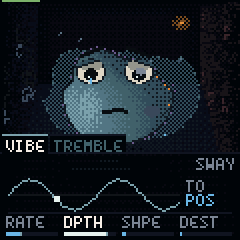
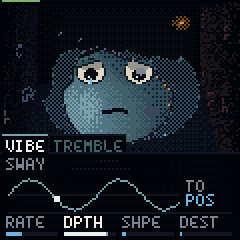
Screen: tabs in fixed places (FX in two rows), the wave's name where the page's was, no frame slider; the 3D table in eight clear lines, taller, its ends bright, the wave playing flat in the drawer while big; fried in soft blotches, not squares; the macros' dials one quiet colour, no red brows

Changed region(s): [[0.8167, 0.6417, 0.9917, 0.7292], [0.0292, 0.6417, 0.2042, 0.7292]]

diff --git a/firmware/src/app/blob.c b/firmware/src/app/blob.c
@@ -475,10 +475,12 @@ static void shade_px(const shade_t *sh, int32_t x, int32_t y)
     }
     idx = (int)(lv * 5.0f + dith + 0.5f);
     idx = idx < 0 ? 0 : idx > 5 ? 5 : idx;
-    if (sh->fry > 0.0f) {                               /* fried: in burnt patches, not all over */
-        const uint32_t hh = ((uint32_t)(x / 3) * 73856093u) ^ ((uint32_t)(y / 3) * 19349663u);
-        const float patch = (float)((hh >> 9) & 255u) / 255.0f;
-        c = patch < sh->fry * 1.1f + dith * 0.15f ? RAMP_FRY[idx] : sh->ramp[idx];
+    if (sh->fry > 0.0f) {                               /* fried: in burnt blotches, soft-edged, that spread as it fries
+                                                           (a few waves across its skin, not squares) */
+        const float u = dx / sh->rmax, v = dy / sh->rmax;
+        const float patch = 0.5f + 0.17f * mm_sin_turns(u * 1.3f + v * 0.7f + 0.11f) + 0.15f * mm_sin_turns(v * 1.9f - u * 0.4f + 0.37f) +
+                            0.12f * mm_sin_turns((u + v) * 2.7f + 0.62f) + 0.06f * mm_sin_turns(u * 4.1f - v * 3.3f);
+        c = patch < sh->fry * 1.1f + (dith - 0.5f) * 0.06f ? RAMP_FRY[idx] : sh->ramp[idx];
     } else {
         c = sh->ramp[idx];
     }
@@ -711,7 +713,7 @@ static void draw_face(const geo_t *g)
         {   /* the brows: inner ends up (sad); the mod envelope lifts them */
             const float by = ey - 8.0f * s - brow * (1.0f - mad) + mad * 2.5f * s;
             const float yin = by - 3.0f * s + mad * 7.5f * s, yout = by + 0.5f * s - mad * 4.0f * s;   /* (angry: the inner ends down) */
-            const uint8_t bc = fine ? PC_BLOB0 : mad > 0.85f ? PC_RED : PC_PUPIL;
+            const uint8_t bc = fine ? PC_BLOB0 : PC_PUPIL;
             px_line((int32_t)(ex - (float)e * 5.5f * s), (int32_t)yin, (int32_t)(ex + (float)e * 4.5f * s), (int32_t)yout, bc);
             px_line((int32_t)(ex - (float)e * 5.5f * s), (int32_t)yin + 1, (int32_t)(ex + (float)e * 4.5f * s), (int32_t)yout + 1, bc);   /* (thick: it reads from across the room) */
             if (mad > 0.4f)                              /* (and thicker still) */
@@ -1002,23 +1004,27 @@ static float lfo_shape_at(int shape, float ph)
     return sy_lfo_shape(shape, ph, lfo_hash(k), lfo_hash(k + 1));
 }
 
-/* A wavetable as a landscape (as Serum draws one, or the OP-1 its strings): its eight frames and what lies
- * between them, NZ slices deep, the first frame nearest, each slice a ridge that hides what is behind and
- * under it; the far ones fade into the room. The slice being played is lit, and travels through it as the
- * position moves (the knob, the LFOs, the Sigh: live). A new table: the land morphs into it. It turns a
- * little, slowly. Drawn back to front into x0..x1, y0..y1. */
+/* A wavetable in 3D (as Serum draws one, or the OP-1 its strings): its eight frames, one line each, the
+ * first nearest and the last at the back, each hiding what is behind and under it; the first and the last
+ * drawn bright so the two ends read, the ones between dimmer, deeper. Tall: the highs and lows show. The
+ * wave playing is lit and laid over it where it is in the table (the knob, the LFOs, the Sigh: live), its
+ * detuned twin beside. A new table: the lines morph into it. It turns a little, slowly. Into x0..x1, y0..y1. */
 static struct {
     int8_t tab[2];                                       /* the table shown, and the one it is morphing from */
     float mix;                                           /* how far along (1: there) */
 } w3[2];                                                 /* (0: the body's, 1: the shadow's) */
+static float w3_at(int which, int table, float fp, float t)
+{
+    const float v = sy_shape(table, fp, t), m = w3[which].mix;
+    return m < 1.0f ? v * m + sy_shape(w3[which].tab[1], fp, t) * (1.0f - m) : v;
+}
 static void wave3d(int which, int32_t x0, int32_t x1, int32_t y0, int32_t y1, int table, float pos, float ghost)
 {
     const int32_t w = x1 - x0, h = y1 - y0;
-    const int big = h > 40, NZ = big ? 26 : 9, NX = big ? 60 : 44;
+    const int NZ = SY_NFRAME, NX = h > 40 ? 64 : 48;
     const float turn = mm_sin_turns(bs.t * 0.07f);
-    const float depx = (float)w * (0.2f + 0.04f * turn), depy = (float)h * (big ? 0.5f : 0.4f);
-    const float amp = (float)h * (big ? 0.17f : 0.22f), fw = (float)w - depx - 2.0f;
-    const int zplay = (int)(mm_clampf(pos, 0.0f, 1.0f) * (float)(NZ - 1) + 0.5f);
+    const float depx = (float)w * (0.18f + 0.03f * turn), depy = (float)h * 0.34f;
+    const float amp = (float)h * 0.3f, fw = (float)w - depx - 2.0f;
     int z, i;
     if (w3[which].tab[0] != table) {                     /* (another table: from the one shown, in a third of a second) */
         if (w3[which].mix >= 1.0f)                       /* (mid-morph: it goes on from where it came) */
@@ -1027,44 +1033,36 @@ static void wave3d(int which, int32_t x0, int32_t x1, int32_t y0, int32_t y1, in
         w3[which].mix = 0.0f;
     }
     w3[which].mix = mm_minf(w3[which].mix + bs.dt * 3.0f, 1.0f);
-    for (z = NZ - 1; z >= 0; z--) {
-        const float zf = (float)z / (float)(NZ - 1), fp = zf, k = 1.0f - 0.22f * zf;   /* (the far ones a little smaller) */
-        const float bx = (float)x0 + 1.0f + depx * zf, by = (float)y1 - 1.0f - amp - depy * zf, m = w3[which].mix;
-        const int play = z == zplay;
-        const uint8_t c = play ? PC_SPEC : zf > 0.75f ? PC_WALL : zf > 0.45f ? PC_WALL2 : zf > 0.2f ? PC_BLOBM : PC_BLOB2;
+    for (z = NZ; z >= 0; z--) {                          /* back to front; z == NZ: the one playing, last, on top */
+        const int play = z == NZ;
+        const float zf = play ? mm_clampf(pos, 0.0f, 1.0f) : (float)z / (float)(NZ - 1), k = 1.0f - 0.2f * zf;
+        const float bx = (float)x0 + 1.0f + depx * zf, by = (float)y1 - 1.0f - amp * k - depy * zf;
+        const uint8_t c = play ? PC_SPEC : z == 0 ? PC_BLOB2 : z == NZ - 1 ? PC_BLOB1 : zf > 0.55f ? PC_WALL : PC_WALL2;
         int32_t lx = 0, ly = 0;
         for (i = 0; i <= NX; i++) {
             const float t = (float)i / (float)NX;
-            float v = sy_shape(table, fp, t);
-            int32_t x, y, yy;
-            if (m < 1.0f)
-                v = v * m + sy_shape(w3[which].tab[1], fp, t) * (1.0f - m);
-            x = (int32_t)(bx + t * fw * k);
-            y = (int32_t)(by - v * amp * k);
-            if (i) {                                     /* the ridge, and under it dark: what is behind is hidden */
-                const int32_t n = x - lx > 0 ? x - lx : 1;
-                int32_t q;
-                for (q = 0; q <= n; q++) {
-                    const int32_t cx = lx + q, cy = ly + (y - ly) * q / n, floor_y = (int32_t)(by + amp * k) + 1;
-                    for (yy = cy + 1; yy <= floor_y && yy <= y1; yy++)
-                        px_pset(cx, yy, PC_BG0);
+            const int32_t x = (int32_t)(bx + t * fw * k), y = (int32_t)(by - w3_at(which, table, zf, t) * amp * k);
+            if (i) {
+                if (!play) {                             /* (under the line, dark: what is behind is hidden) */
+                    const int32_t nn = x - lx > 0 ? x - lx : 1, floor_y = (int32_t)(by + amp * k) + 1;
+                    int32_t q, yy;
+                    for (q = 0; q <= nn; q++)
+                        for (yy = ly + (y - ly) * q / nn + 1; yy <= floor_y && yy <= y1; yy++)
+                            px_pset(lx + q, yy, PC_BG0);
                 }
                 px_line(lx, ly, x, y, c);
-                if (play && big)
-                    px_line(lx, ly - 1, x, y - 1, PC_BLOB2);   /* (the one playing: bold) */
+                if (play || z == 0)
+                    px_line(lx, ly - 1, x, y - 1, play ? PC_BLOB2 : PC_BLOBM);   /* (bold: the one playing, the first) */
             }
             lx = x;
             ly = y;
         }
-        if (play && ghost > 0.05f) {                     /* its detuned twin, sliding */
-            for (i = 0; i <= NX; i++) {
+        if (play && ghost > 0.05f)                       /* its detuned twin, sliding */
+            for (i = 0; i <= NX; i += 2) {
                 const float t = (float)i / (float)NX;
-                const int32_t x = (int32_t)(bx + t * fw * k);
-                const int32_t y = (int32_t)(by - sy_shape(table, fp, t + ghost * 0.1f * mm_sin_turns(bs.t * 0.5f)) * amp * k);
-                if (i & 1)
-                    px_pset(x, y, PC_GHOST);
+                px_pset((int32_t)(bx + t * fw * k),
+                        (int32_t)(by - w3_at(which, table, zf, t + ghost * 0.1f * mm_sin_turns(bs.t * 0.5f)) * amp * k), PC_GHOST);
             }
-        }
     }
 }
 /* the table big, over the room, while its knobs are being turned (BODY: WAVE or POS; SHADOW: its WAVE) */
@@ -1074,18 +1072,18 @@ static int wave_big(void)
            ((ui.page == PG_BODY && (ui.touched == 0 || ui.touched == 1)) || (ui.page == PG_SHADOW && ui.touched == 0));
 }
 
-static void schem_body(const drawer_t *p)                /* the wavetable: a landscape, the slice playing lit */
+static void schem_body(const drawer_t *p)                /* the wavetable in 3D; while it is big above: the wave playing, flat */
 {
-    if (!wave_big())                                     /* (big: it is over the room, not in here too) */
-        wave3d(0, p->gx0, p->gx1 - 14, p->gy0 - 1, p->gy1 + 1, proj.par[P_TABLE], sy_tel.wave_pos, pn(P_DETUNE));
-    {   /* the position, a slider of frames on the right */
-        const float pos = pn(P_POS);
-        int f;
-        for (f = 0; f < SY_NFRAME; f++) {
-            const int32_t y = p->gy1 - f * (p->gy1 - p->gy0) / (SY_NFRAME - 1);
-            const int on = (int)(pos * (float)(SY_NFRAME - 1) + 0.5f) == f;
-            px_rect(p->gx1 - 12, y, on ? 10 : 6, 1, on ? PC_SPEC : PC_WALL2);
-        }
+    if (!wave_big()) {
+        wave3d(0, p->gx0, p->gx1, p->gy0 - 2, p->gy1 + 1, proj.par[P_TABLE], sy_tel.wave_pos, pn(P_DETUNE));
+        return;
+    }
+    {
+        float v[64];
+        int i;
+        for (i = 0; i < 64; i++)
+            v[i] = 0.5f + 0.45f * sy_shape(proj.par[P_TABLE], sy_tel.wave_pos, (float)i / 63.0f);
+        curve(p, v, 64, PC_SPEC, PC_BLOBD, 1);
     }
 }
 
@@ -1733,8 +1731,7 @@ static void schem_mumble(const drawer_t *p)              /* its peak, where it i
 
 static void schem_macro(const drawer_t *p)               /* the macros: four dials, the middle the sound as it is made */
 {
-    static const uint8_t KC[4] = {PC_TEAR, PC_RED, PC_XP, PC_BLOB2};
-    static const int8_t KP[4] = {P_MEYES, P_MBITE, P_MNERVE, P_MROOM};
+    static const int8_t KP[4] = {P_MEYES, P_MBITE, P_MNERVE, P_MROOM};   /* (one quiet colour, the drawer's: the blob shows what they do) */
     const uint32_t since = plat_ms() - ui.focus_t;
     const int32_t cy = (p->gy0 + p->gy1) / 2 + 2;
     int k, j;
@@ -1748,13 +1745,13 @@ static void schem_macro(const drawer_t *p)               /* the macros: four dia
             int rr;
             for (rr = 0; rr < 2; rr++) {
                 const float sx = mm_sin_turns(t) * (8.5f - (float)rr), sy = mm_sin_turns(t + 0.25f) * (8.5f - (float)rr);
-                px_pset(cx + (int32_t)(sx + (sx < 0.0f ? -0.5f : 0.5f)), cy - (int32_t)(sy + (sy < 0.0f ? -0.5f : 0.5f)), lit ? KC[k] : PC_WALL2);
+                px_pset(cx + (int32_t)(sx + (sx < 0.0f ? -0.5f : 0.5f)), cy - (int32_t)(sy + (sy < 0.0f ? -0.5f : 0.5f)), lit ? PC_BLOB2 : PC_WALL2);
             }
         }
         px_rect(cx, cy - 11, 1, 2, PC_DIM);              /* (the middle's mark: the sound as it was made) */
         px_line(cx, cy, cx + (int32_t)(mm_sin_turns(a) * 5.6f + (mm_sin_turns(a) < 0.0f ? -0.5f : 0.5f)),
-                cy - (int32_t)(mm_sin_turns(a + 0.25f) * 5.6f + (mm_sin_turns(a + 0.25f) < 0.0f ? -0.5f : 0.5f)), hot ? PC_WHITE : KC[k]);
-        px_rect(cx - 1, cy - 1, 2, 2, hot ? PC_WHITE : KC[k]);
+                cy - (int32_t)(mm_sin_turns(a + 0.25f) * 5.6f + (mm_sin_turns(a + 0.25f) < 0.0f ? -0.5f : 0.5f)), hot ? PC_WHITE : PC_BLOB2);
+        px_rect(cx - 1, cy - 1, 2, 2, hot ? PC_WHITE : PC_BLOB2);
     }
 }
 
@@ -1831,60 +1828,54 @@ static void draw_preset_card(int32_t y0)
     }
 }
 
-/* a button's pages as tabs on the drawer's top edge, in the order the button goes round them: the one open
- * lit and joined to the drawer, the others dark. All of them if they fit across; else as many as fit around
- * the open one, whole, with a small arrow where more are hidden (FX's seven). */
+/* a button's pages as tabs on the drawer's top edge, in the order the button goes round them, always in the
+ * same places whichever is open (the open one lit): one row; FX's seven, two (they don't fit across). */
+static int tab_rows(int pg)                             /* (how many rows its button's tabs take) */
+{
+    int n = 0, first = pg;
+    int32_t x = 1;
+    while (PAGE_NTH[first] && n++ < 8)
+        first = PAGE_AGAIN[first];
+    pg = first;
+    n = 0;
+    do {
+        x += px_text_w(PAGE_NAME[pg]) + 5;
+        pg = PAGE_AGAIN[pg];
+    } while (pg >= 0 && pg != first && ++n < 8);
+    return x > PX_W ? 2 : 1;
+}
 static void draw_tabs(int32_t y0)
 {
     int8_t pgs[8];
-    int32_t w[8], x = 1;
-    int n = 0, pg = ui.page, k, cur = 0, lo, hi;
-    if (PAGE_AGAIN[pg] < 0 || y0 < 9 || y0 > PX_H - 16)     /* (none, no room over it, or the drawer nearly away) */
+    int n = 0, pg = ui.page, k, rows;
+    int32_t x = 1, row = 0;
+    if (PAGE_AGAIN[pg] < 0 || y0 > PX_H - 16)           /* (none, or the drawer nearly away) */
+        return;
+    rows = tab_rows(pg);
+    if (y0 < 9 * rows)
         return;
     while (PAGE_NTH[pg] && n++ < 8)                      /* (round to its button's first) */
         pg = PAGE_AGAIN[pg];
     n = 0;
     do {
-        if (pg == ui.page)
-            cur = n;
-        pgs[n] = (int8_t)pg;
-        w[n] = px_text_w(PAGE_NAME[pg]) + 4;
-        n++;
+        pgs[n++] = (int8_t)pg;
         pg = PAGE_AGAIN[pg];
     } while (pg >= 0 && pg != pgs[0] && n < 8);
-    {   /* the window: from the open one out, a tab each side in turn, while they fit (with room for the arrows) */
-        int32_t used = w[cur];
-        int grew = 1;
-        lo = hi = cur;
-        while (grew) {
-            grew = 0;
-            if (hi + 1 < n && used + w[hi + 1] + 1 + (hi + 2 < n ? 5 : 0) + (lo > 0 ? 5 : 0) <= PX_W - 2) {
-                used += w[++hi] + 1;
-                grew = 1;
-            }
-            if (lo > 0 && used + w[lo - 1] + 1 + (lo - 1 > 0 ? 5 : 0) + (hi + 1 < n ? 5 : 0) <= PX_W - 2) {
-                used += w[--lo] + 1;
-                grew = 1;
-            }
-        }
-    }
-    if (lo > 0) {                                        /* (more to the left) */
-        px_line(x + 3, y0 - 7, x, y0 - 4, PC_DIM);
-        px_line(x, y0 - 4, x + 3, y0 - 1, PC_DIM);
-        x += 5;
-    }
-    for (k = lo; k <= hi; k++) {
+    for (k = 0; k < n; k++) {
         const int on = pgs[k] == ui.page;
-        px_rect(x, y0 - 8, w[k], 8, on ? PC_PANEL : PC_BG0);
-        px_rect(x, y0 - 9, w[k], 1, on ? PC_BLOB2 : PC_GRID);
-        if (on)
-            px_rect(x, y0, w[k], 1, PC_PANEL);           /* (open: no edge between it and the drawer) */
-        px_text(x + 2, y0 - 6, PAGE_NAME[pgs[k]], on ? PC_WHITE : PC_BLOBM);
-        x += w[k] + 1;
-    }
-    if (hi + 1 < n) {                                    /* (more to the right) */
-        px_line(x + 1, y0 - 7, x + 4, y0 - 4, PC_DIM);
-        px_line(x + 4, y0 - 4, x + 1, y0 - 1, PC_DIM);
+        const int32_t w = px_text_w(PAGE_NAME[pgs[k]]) + 4;
+        int32_t ty;
+        if (rows > 1 && row == 0 && x + w > PX_W - 1) { /* (the first row full: the rest above it) */
+            row = 1;
+            x = 1;
+        }
+        ty = y0 - 9 * (rows - row);                     /* (the first pages on top, the last next to the drawer) */
+        px_rect(x, ty + 1, w, 8, on ? PC_PANEL : PC_BG0);
+        px_rect(x, ty, w, 1, on ? PC_BLOB2 : PC_GRID);
+        if (on && ty + 9 == y0)
+            px_rect(x, y0, w, 1, PC_PANEL);              /* (open, next to the drawer: no edge between them) */
+        px_text(x + 2, ty + 3, PAGE_NAME[pgs[k]], on ? PC_WHITE : PC_BLOBM);
+        x += w + 1;
     }
 }
 
@@ -1910,20 +1901,20 @@ static void draw_panel(const geo_t *g)
         return;
     }
     /* the page's name and what it is set to; a button with more pages: their tabs, standing on the drawer */
-    const int tabbed = PAGE_AGAIN[ui.page] >= 0 && p.y0 >= 9 && p.y0 <= PX_H - 16;   /* (its name is on its tab) */
+    const int tabbed = PAGE_AGAIN[ui.page] >= 0 && p.y0 >= 9 * tab_rows(ui.page) && p.y0 <= PX_H - 16;   /* (its name is on its tab) */
     const int32_t dots_w = tabbed ? -(px_text_w(PAGE_NAME[ui.page]) + 6) : 0;
     if (!tabbed)
         px_text(3, p.y0 + 3, PAGE_NAME[ui.page], PC_BLOB2);
     draw_tabs(p.y0);
     if (wave_big() && p.y0 > 60) {                      /* the table, big: the room behind dark glass */
         int32_t x, y;
-        for (y = 9; y < p.y0 - 10; y++)
+        for (y = 9; y < p.y0 - 9 * tab_rows(ui.page) - 1; y++)
             for (x = 0; x < PX_W; x++) {
                 uint8_t *q = &px_fb[y * PX_W + x];
                 *q = ((x ^ y) & 1) ? PC_BG0 : GLASS[*q < PC_N ? *q : 0];
             }
         if (ui.page == PG_SHADOW)
-            wave3d(1, 3, PX_W - 4, 12, p.y0 - 13, proj.par[P_BTABLE], sy_tel.wave_pos, 0.0f);
+            wave3d(1, 3, PX_W - 4, 12, p.y0 - 13, proj.par[P_BTABLE], 0.0f, 0.0f);
         else
             wave3d(0, 3, PX_W - 4, 12, p.y0 - 13, proj.par[P_TABLE], sy_tel.wave_pos, pn(P_DETUNE));
     }
@@ -1977,7 +1968,7 @@ static void draw_panel(const geo_t *g)
             for (i = 0; i < n; i++)
                 b[i] = what[i];
             b[n] = 0;
-            px_text(PX_W - 3 - px_text_w(b), p.y0 + 3, b, PC_DIM);
+            px_text(tabbed ? 3 : PX_W - 3 - px_text_w(b), p.y0 + 3, b, PC_DIM);   /* (tabbed: where its name was) */
         }
     }
     p.gx0 = 4;

diff --git a/README.md b/README.md
@@ -60,12 +60,12 @@ through X0X, FoMni and FiMba-1, the firmware MOPE-1 started from.
 
 ## Controls
 
-Press or hold a part's button: its schematic opens in a dark glass drawer over the bottom of the screen and the four knobs turn that part, each knob's name over its meter (the one you turn lights up). The drawer stays until 3 seconds after your last touch, then slides away, but **the page stays**: its button stays lit and the knobs still turn that part (turning one brings the drawer back). **HOME** goes back to the Macros. **Some buttons have more pages**, shown as tabs standing on the drawer, the open one lit: press the button again while its page shows to go to the next (HOME: Macros, Body, Shadow; ENV: Mouth, Sigh; LFO: Vibe, Tremble; GLO: Mixer, Settings; SEQ: Loop, Tape deck; FX goes round seven: Walls, Tears, Copies, Dust, Swirl, Burn, Mumble; with that many, the others show their first two letters). **Press a part's button twice quickly and its drawer stays open** (switch pages with the other buttons) until you press **HOME**. OCT+ or OCT− is lit while the keyboard is shifted up or down. The blob stays big and shows faintly through the glass. The drawer is drawn in the room's cold colours, like the drum grid.
+Press or hold a part's button: its schematic opens in a dark glass drawer over the bottom of the screen and the four knobs turn that part, each knob's name over its meter (the one you turn lights up). The drawer stays until 3 seconds after your last touch, then slides away, but **the page stays**: its button stays lit and the knobs still turn that part (turning one brings the drawer back). **HOME** goes back to the Macros. **Some buttons have more pages**, shown as tabs standing on the drawer, always in the same places, the open one lit: press the button again while its page shows to go to the next (HOME: Macros, Body, Shadow; ENV: Mouth, Sigh; LFO: Vibe, Tremble; GLO: Mixer, Settings; SEQ: Loop, Tape deck; FX goes round seven, in two rows: Walls, Tears, Copies, Dust, Swirl, Burn, Mumble). **Press a part's button twice quickly and its drawer stays open** (switch pages with the other buttons) until you press **HOME**. OCT+ or OCT− is lit while the keyboard is shifted up or down. The blob stays big and shows faintly through the glass. The drawer is drawn in the room's cold colours, like the drum grid.
 
 | Page | Its schematic |
 | --- | --- |
 | Macros | four dials, each lit from the middle to where it is; the blob shows them (Bite: it glares; Nerves: it shivers) |
-| Body | the wavetable as a 3D landscape, all its frames in depth, the slice that is playing lit and travelling through it (live, with the LFOs and the Sigh), the detuned copy sliding, the position on a frame ladder; while Table or Position turns it fills the room; a new table morphs in |
+| Body | the wavetable in 3D, its eight frames in depth (the first in front and the last at the back drawn bright), the wave playing lit where it is in the table (live, with the LFOs and the Sigh), the detuned copy sliding; while Table or Position turns it fills the room and the drawer shows the wave playing, flat; a new table morphs in |
 | Eyes | the filter's curve for its kind (low, band, high, notch, or the comb's teeth) and its resonance peak, the cutoff marked, and where the note's envelope opens it now (red) |
 | Mouth | the ADSR, a red dot riding it where the loudest note is |
 | Vibe | the LFO's wave (more cycles: faster), a red dot at its phase, where it goes |
@@ -135,7 +135,7 @@ As on X0X, Melodee and JIANT FM: **PLAY**, **REC** and **SEQ** do what they say.
 - **SAVE** (tapped): SAVE AS, to keep the sound as a preset of yours (below). Everything else saves by itself when quiet. Hold SAVE for 1.5 s, then press it again, to reset everything; the blob keeps its level.
 - The lowest and highest keys together: it gives up.
 
-**The macros** (HOME, and what the knobs turn out of the box): four knobs that each take the whole sound from one end to the other, the middle the sound as it was made. They add to what the other knobs and the LFOs do, so nothing else moves under you. **Eyes**: the filter from nearly shut (muffled, not gone) to wide open, always brighter the higher it goes, whatever the filter's kind. **Bite**: the push into the filter, the fry and the burn, a harder attack: dirtier, not louder; the blob glares. **Nerves**: the LFOs deeper and faster, the wave, the filter and the tables wandering on their own; it shivers. **Room**: reverb, echoes and copies, down to none at all. A preset starts with all four in the middle; your own presets keep where you left them.
+**The macros** (HOME, and what the knobs turn out of the box): four knobs that each take the whole sound from one end to the other, the middle the sound as it was made. They add to what the other knobs and the LFOs do, so nothing else moves under you. **Eyes**: the filter from nearly shut (muffled, not gone) to wide open, always brighter the higher it goes, whatever the filter's kind. **Bite**: up, the push into the filter, the fry and the burn, a harder attack: dirtier, not louder (the blob glares); down, soft and round: a gentler filter, the shadow's FM and sync tamed, a slower attack. **Nerves**: up, the LFOs deeper and faster, the wave, the filter and the tables wandering on their own (it shivers); down, still: no LFO, no drift, the detune closed. **Room**: reverb, echoes and copies, from none at all to drowned. A preset starts with all four in the middle; your own presets keep where you left them.
 
 **Presets** (65, in seven kinds; the card shows the kind):
 - **Pad:** Monday, 3AM, Rain again, Church of nothing, Mood swing, Seen 2:14, Tide goes out

diff --git a/CHANGELOG.md b/CHANGELOG.md
@@ -10,17 +10,25 @@ Four macros, three new effects and a bank that shows what the engine can do.
 
 - **Macros on HOME.** HOME now opens four knobs that each take the whole sound from one end to the
   other, the same four on every preset: **Eyes** (the filter, from muffled to wide open), **Bite**
-  (clean to wrecked, dirtier but not louder), **Nerves** (frozen to wild: the LFOs, the wave, the
-  filter all restless) and **Room** (bone dry to drowned). The middle is the sound as it was made.
-  The blob acts them out: Bite makes it glare, Nerves makes it shiver. HOME again: the Body, then
+  (soft and round to wrecked, dirtier but not louder), **Nerves** (still to wild: the LFOs, the wave,
+  the filter all restless) and **Room** (bone dry to drowned). The middle is the sound as it was made,
+  and each goes a long way both ways. The blob acts them out: Bite makes it glare, Nerves makes it shiver. HOME again: the Body, then
   the Shadow. Out of the box the knobs turn the macros.
 - **Three new effects** on FX, after the dust: **Swirl** (a phaser; with Feedback up, a flanger),
   **Burn** (a fuzz after the filter, plus fewer bits and a lower sample rate) and **Mumble** (a
   filter over it all that moves with the beat, over a bar, or with your playing). The LFOs can go to
   each of them, and to the shadow oscillator's pitch, so a sync sound sweeps.
-- **Tabs.** A button with more pages shows them as tabs on top of the drawer, the open one lit.
-- **The wavetable in 3D.** The Body draws the table as a landscape with the slice you hear lit and
-  moving through it. While you turn Table or Position it fills the screen.
+- **Tabs.** A button with more pages shows them as tabs on top of the drawer, always in the same
+  places, the open one lit (FX's seven in two rows).
+- **Punches' white keys follow one rule.** The white key below a held time punch takes it twice as
+  far, the one above in threes: HALF a quarter or a third, DOUBLE four or three times, REPEAT,
+  STUTTER and GATE twice as fast or in triplets, REVERSE shorter slices or in threes. They work on
+  top of the punch's own knob, and the caption says what it came to.
+- **WOBBLE is a warped record again,** without the gritty, crushed sound under it.
+- **ARP plays your keys, not the loop.** Switching it on or off no longer changes what the loop
+  recorded: recorded chords stay chords, a recorded arpeggio stays an arpeggio.
+- **The wavetable in 3D.** The Body draws the table's frames in depth, the front and the back clear,
+  with the wave you hear lit where it is. While you turn Table or Position it fills the screen.
 - **Bolder presets, 65 in all.** Twenty new: brass, an organ, bells and chimes, wave sequences, a
   reese, an 808 sub with glide, a fuzz bass, sync, phaser and FM leads, an auto-wah clav and more.
   Fourteen re-voiced (brighter, faster, narrower basses), nine slow ones gone (Hold music, Weighted
